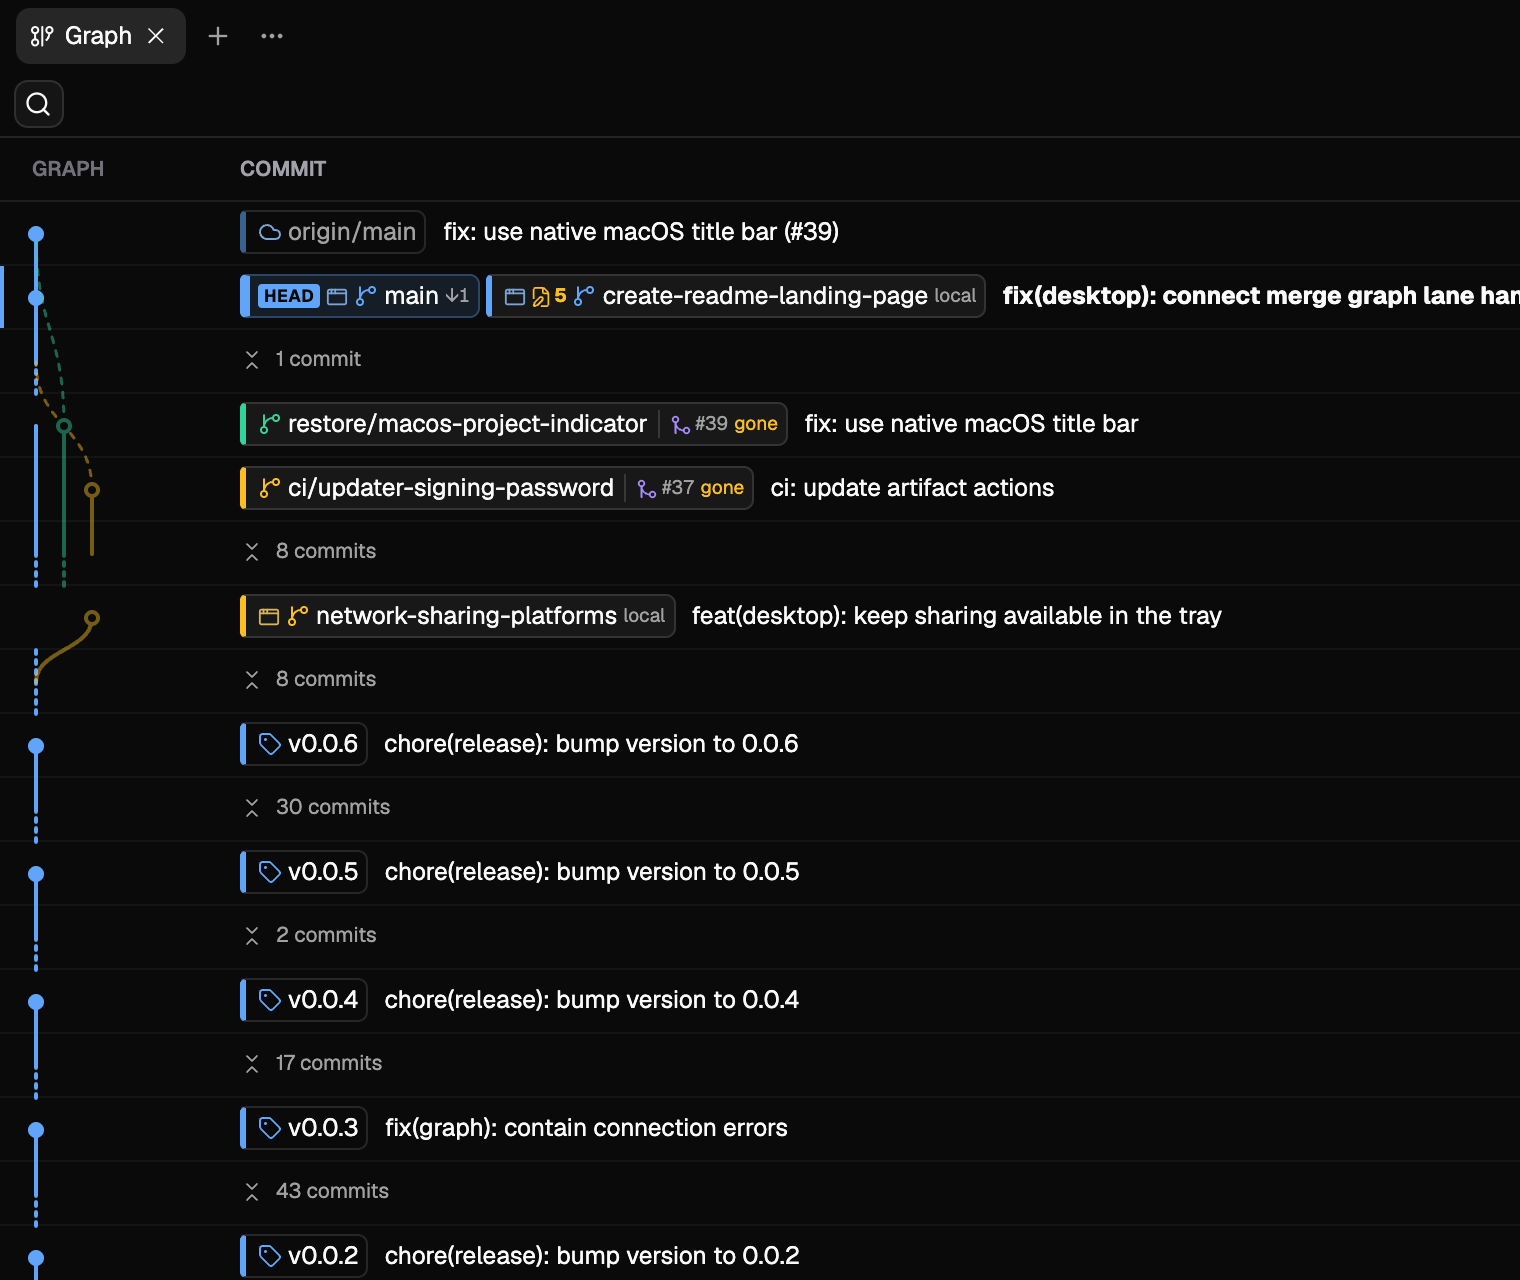
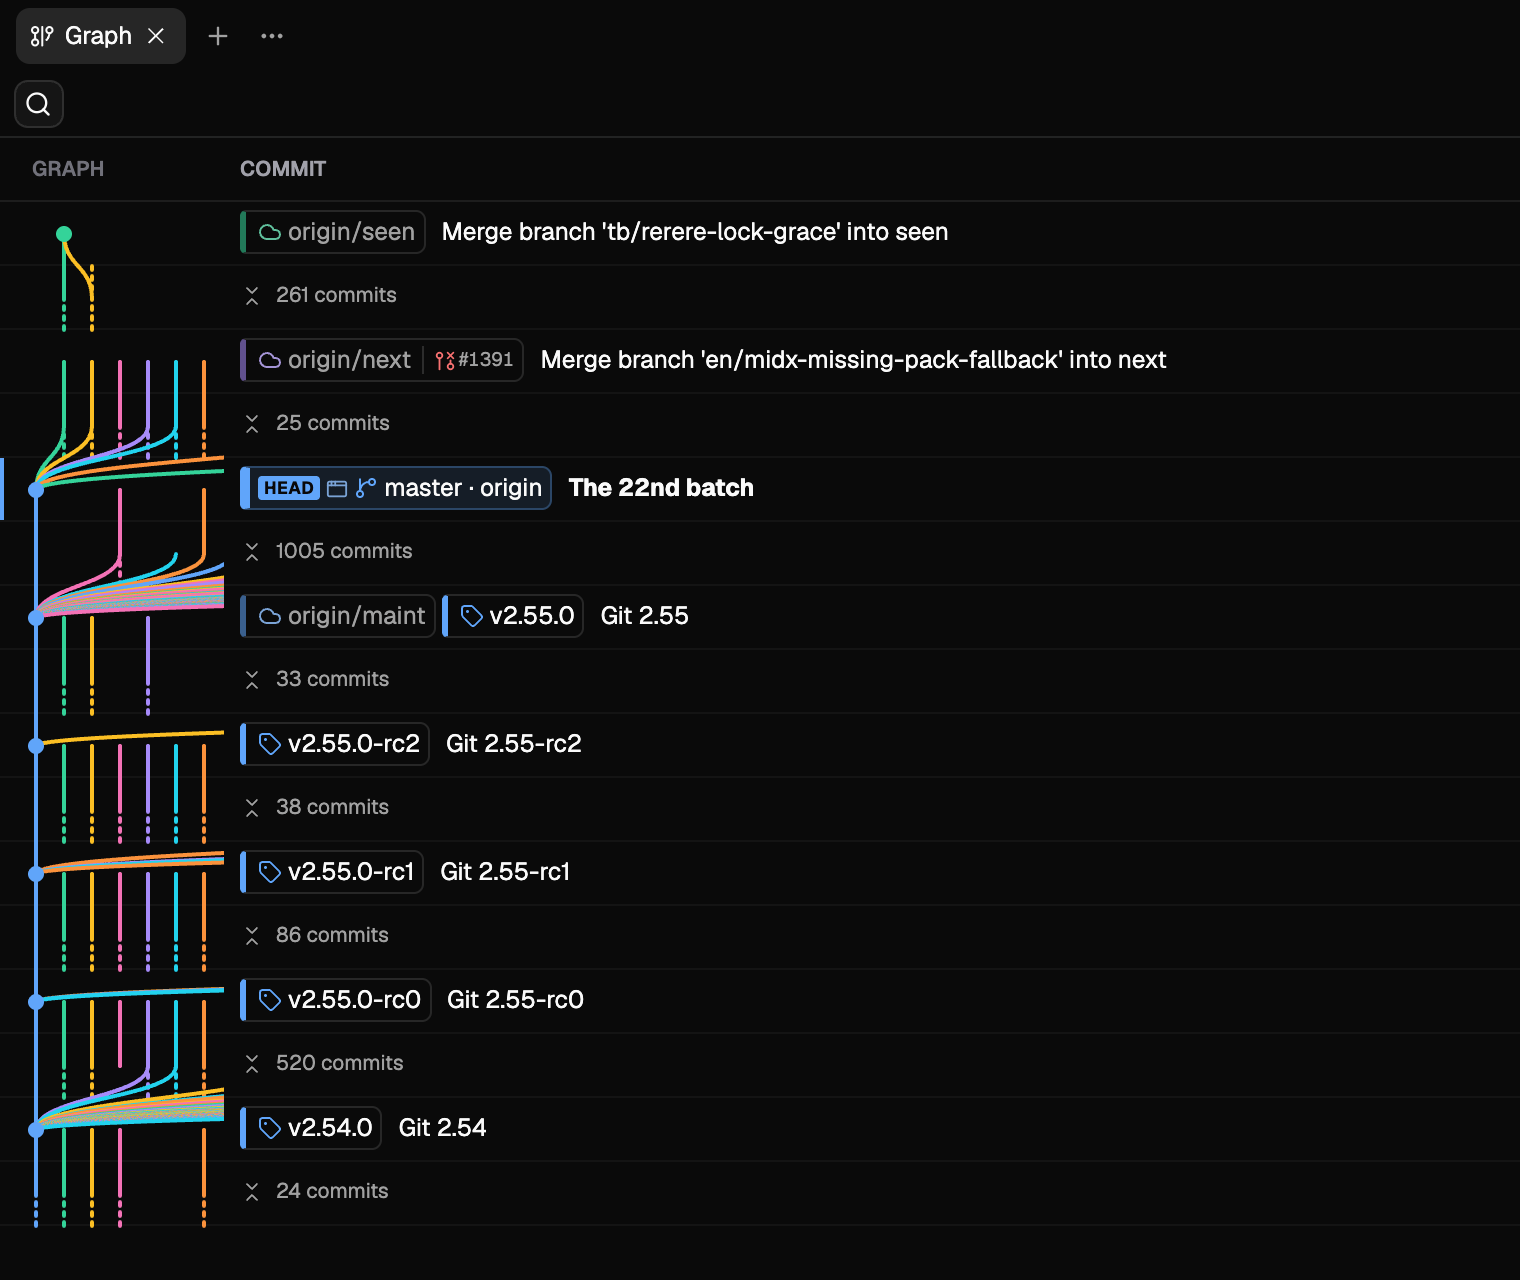
docs(site): show the commit graph against a repository with real topology

diff --git a/apps/site/app/page.tsx b/apps/site/app/page.tsx
@@ -82,8 +82,8 @@ export default async function Home() {
         </section>
 
         <Shot
-          alt="The Git Nav commit graph, with runs of unreferenced commits collapsed into single rows"
-          caption="Four weeks of history in ten rows. Every run opens where it sits."
+          alt="Git Nav showing Git's own repository, with runs of unreferenced commits collapsed into single rows"
+          caption="Eighty-two thousand commits of Git's own history, in the ten rows something points at. Every run opens where it sits."
           height={1280}
           priority
           src="/screenshots/graph-collapsed.png"
@@ -102,14 +102,14 @@ export default async function Home() {
           </p>
           <div className="mt-10 grid gap-8 lg:grid-cols-2">
             <Shot
-              alt="The commit graph with every commit listed"
+              alt="Git's own history with every commit listed, one topic branch per lane"
               caption="Every commit, in order."
               height={1280}
               src="/screenshots/collapse-before.png"
               width={1520}
             />
             <Shot
-              alt="The same commit graph with unreferenced commits collapsed"
+              alt="The same history with every unreferenced commit collapsed into a run"
               caption="Only what something points at."
               height={1280}
               src="/screenshots/collapse-after.png"

diff --git a/README.md b/README.md
@@ -2,7 +2,7 @@
 
 Read Git history, worktrees and diffs. A desktop app for macOS, Windows and Linux.
 
-![The Git Nav commit graph, with runs of unreferenced commits collapsed into single rows](apps/site/public/screenshots/graph-collapsed.png)
+![Git Nav showing Git's own repository, with runs of unreferenced commits collapsed into single rows](apps/site/public/screenshots/graph-collapsed.png)
 
 ## Install
 
